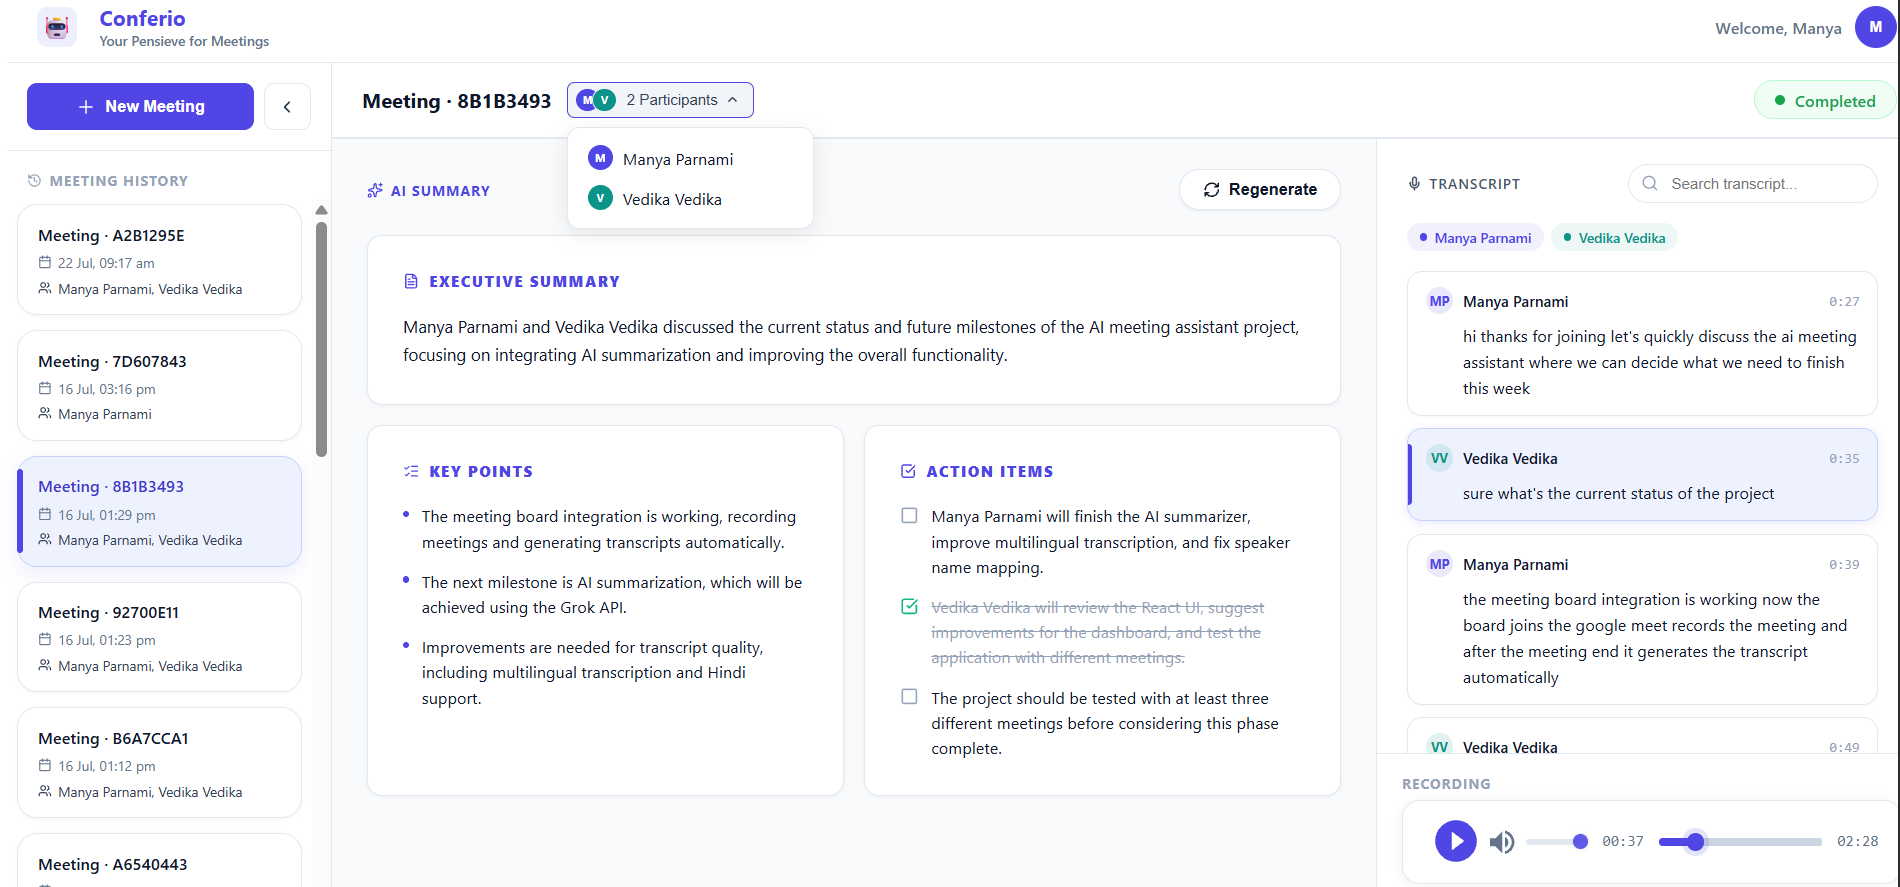
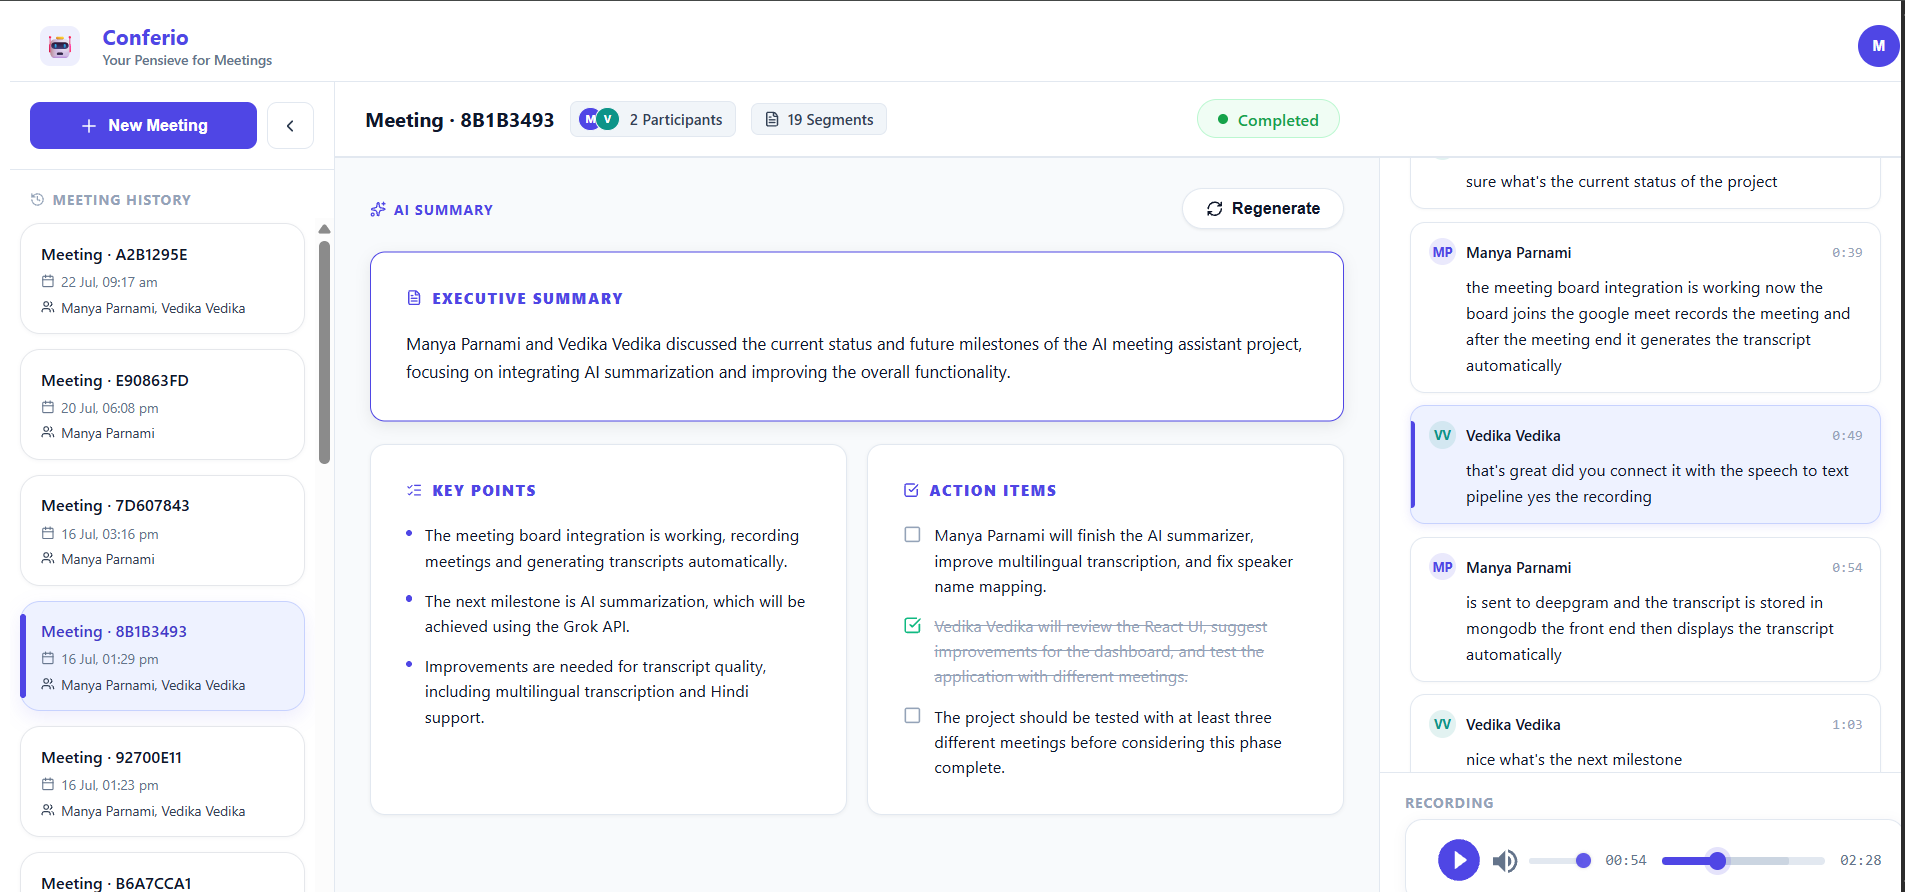
inor changes

diff --git a/frontend/src/pages/Home.jsx b/frontend/src/pages/Home.jsx
@@ -226,9 +226,7 @@ function Footer() {
       <div style={{ fontSize: "13px", color: theme.textSecondary, marginBottom: "6px" }}>
         Conferio — Your Pensieve for Meetings
       </div>
-      <div style={{ fontSize: "12px", color: theme.textMuted }}>
-        An internship project by Manya &amp; Vedika.
-      </div>
+      
     </footer>
   );
 }
